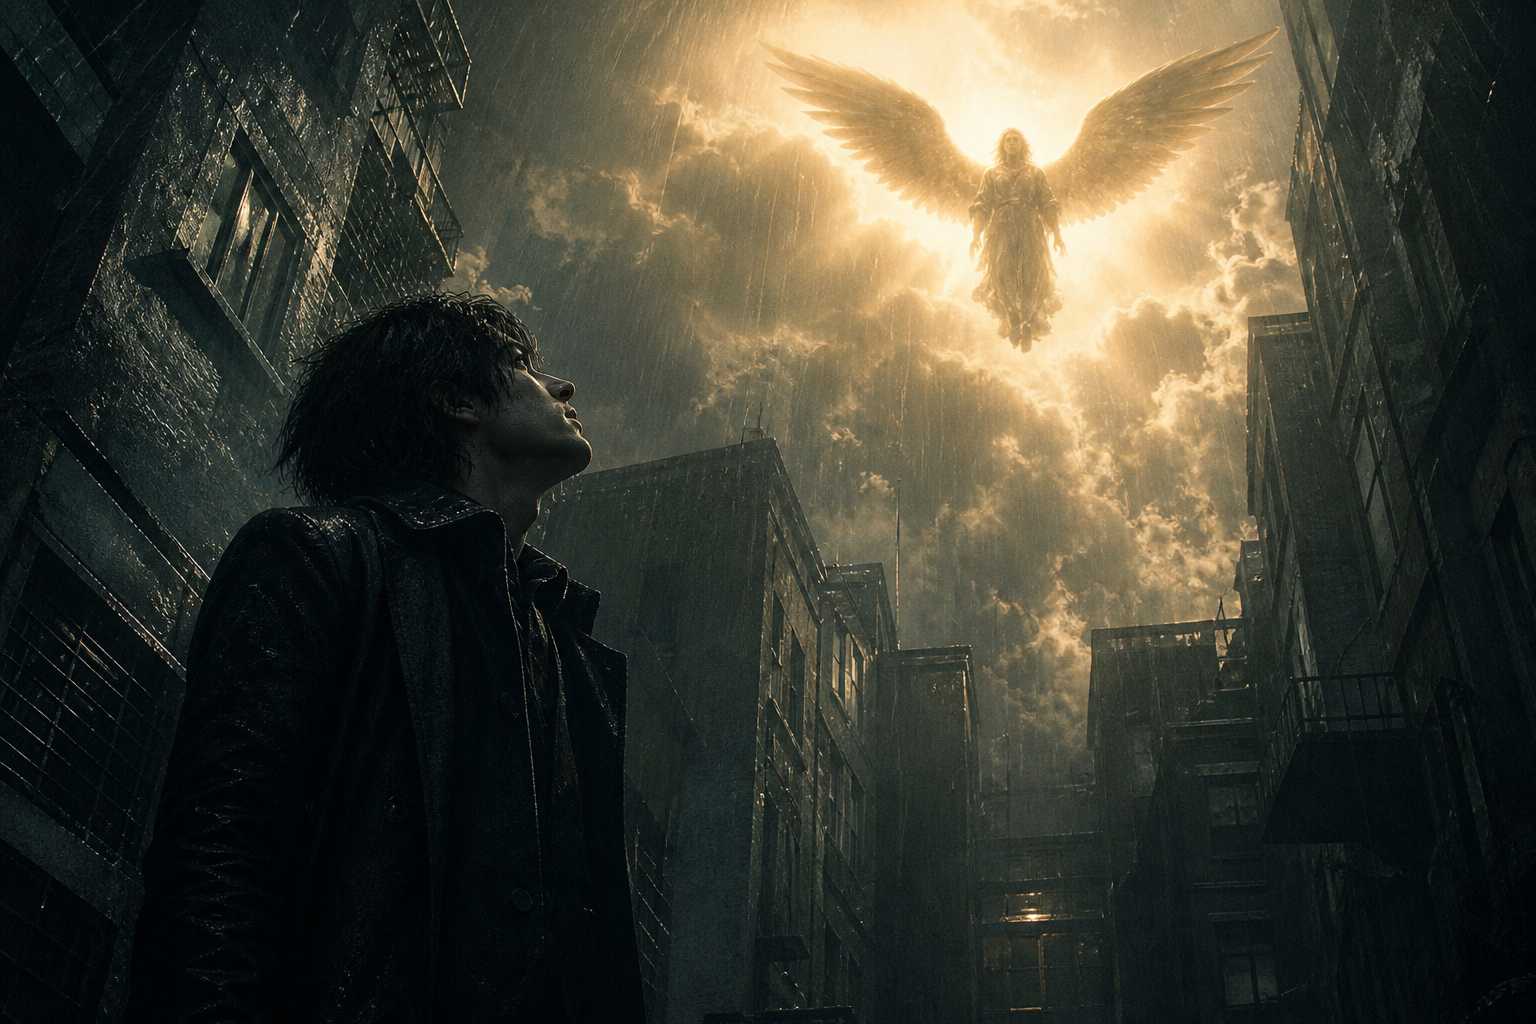
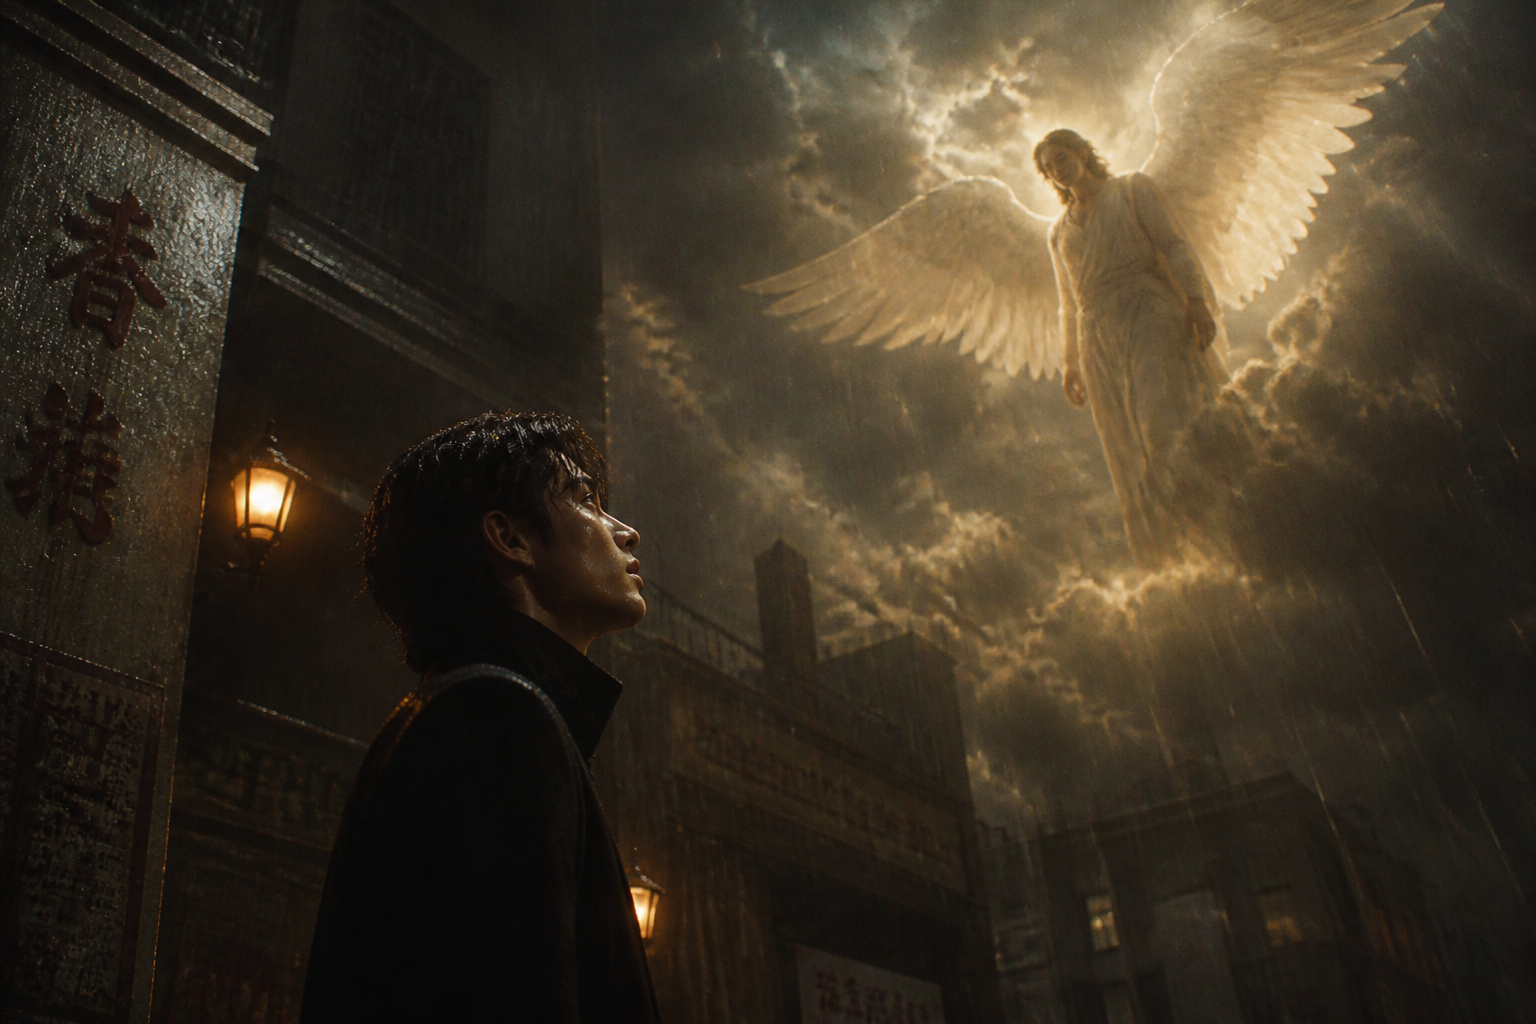
EP06: recreate all film stills with consistent Damien character lock
- Same person: pale face, dark hair, black coat in every scene
- Vintage Hong Kong cinema gothic 35mm film still style
- Add GLOBAL LOCK to pack for Flova and future images

diff --git a/bar1207/ep06_devil_loves_angel_pack.md b/bar1207/ep06_devil_loves_angel_pack.md
@@ -347,13 +347,25 @@ I would still choose you...
 
 ## Film Assets
 
+**Character lock:** `ep06_character_damien.png` — **所有場景同一人物**  
+**Style lock:** Live-action **Vintage Hong Kong Cinema** × Gothic · 35mm film grain · NOT anime
+
+### GLOBAL LOCK（所有圖 · Flova · 新圖）
+
+```text
+Same young handsome man Damien as ep06_character_damien.png: age 26, pale skin,
+dark hair, black high-collar coat, same face every frame. Live-action vintage
+Hong Kong cinema gothic film still, 35mm film grain, shallow DOF, subtle red rim light.
+NOT anime, NOT cartoon, NOT devil horns costume, NOT 3D render.
+```
+
 | File | Beat |
 |------|------|
-| `ep06_character_damien.png` | Devil character lock |
-| `ep06_scene_01_below_her_light.png` | Watching angel light from shadow |
-| `ep06_scene_02_forbidden_halo.png` | Halo reflection · cannot touch |
-| `ep06_scene_03_bar_1207.png` | Twelve Seven · amber bar |
-| `ep06_scene_04_ash_and_feathers.png` | Ash vs feather metaphor |
+| `ep06_character_damien.png` | **Damien character lock** |
+| `ep06_scene_01_below_her_light.png` | 看天使之光 · from shadow |
+| `ep06_scene_02_forbidden_halo.png` | 禁忌光環 · halo reflection |
+| `ep06_scene_03_bar_1207.png` | 十二時七分 · amber bar |
+| `ep06_scene_04_ash_and_feathers.png` | 灰与羽 · metaphor |
 | `ep06_film_cover_poster.png` | YouTube cover |
 
 ---
